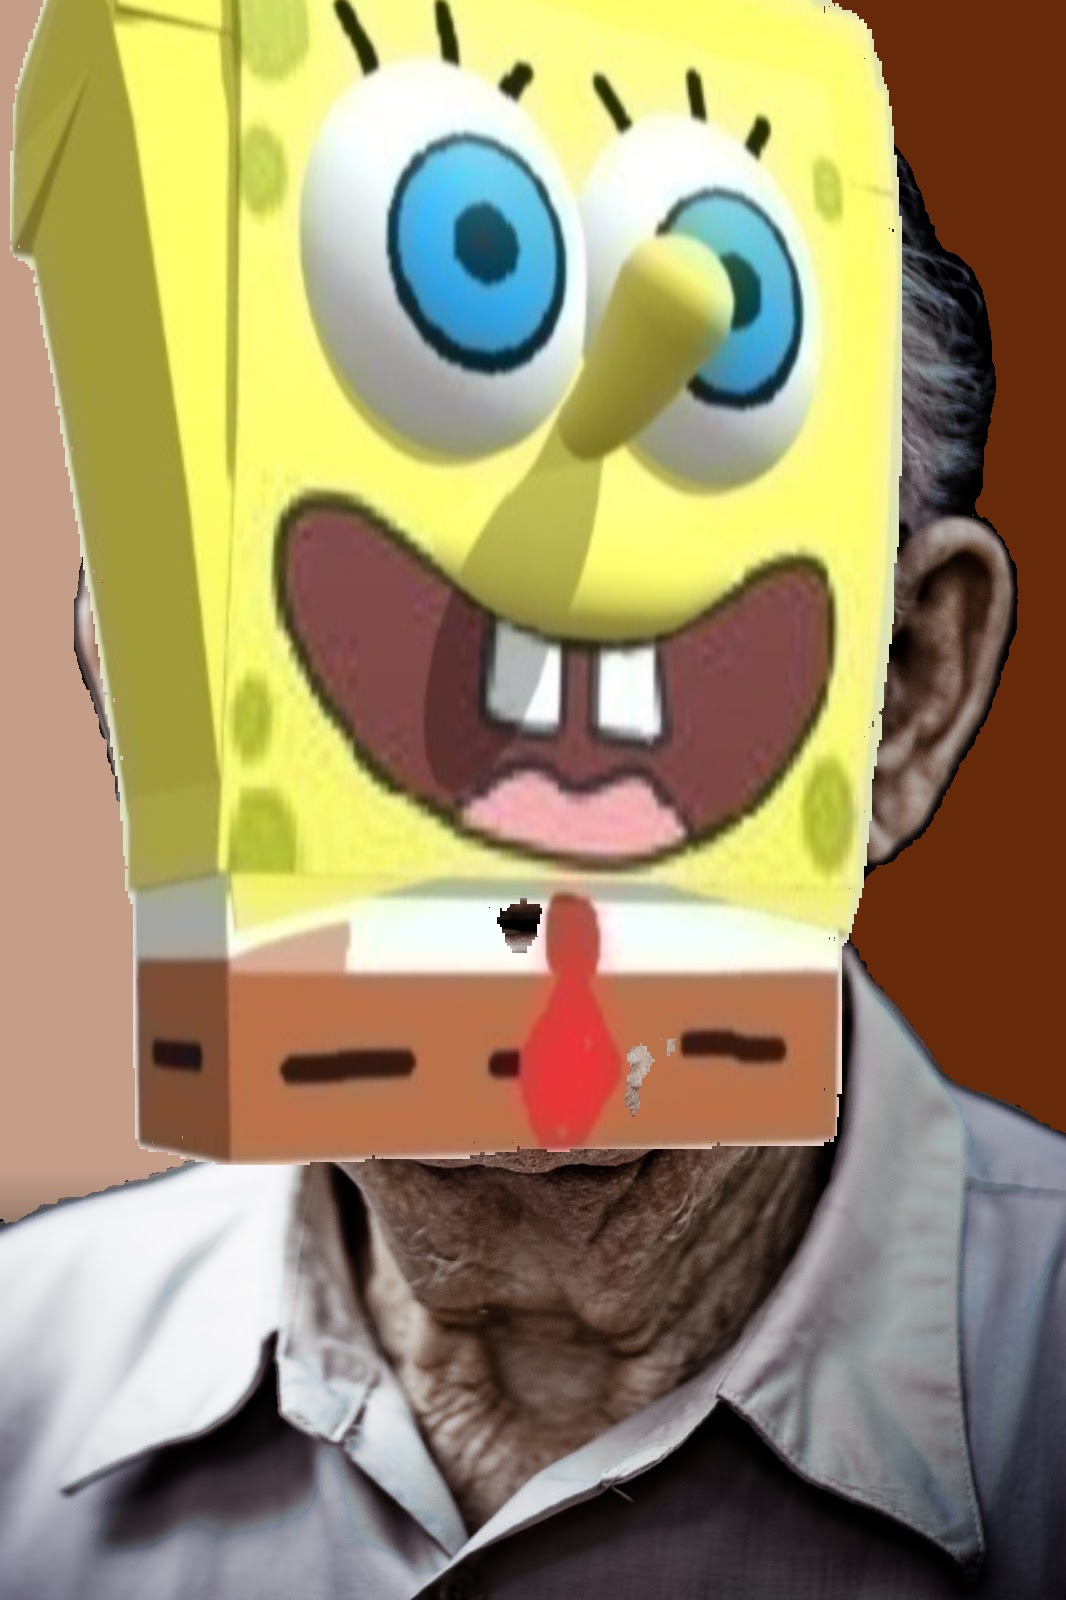
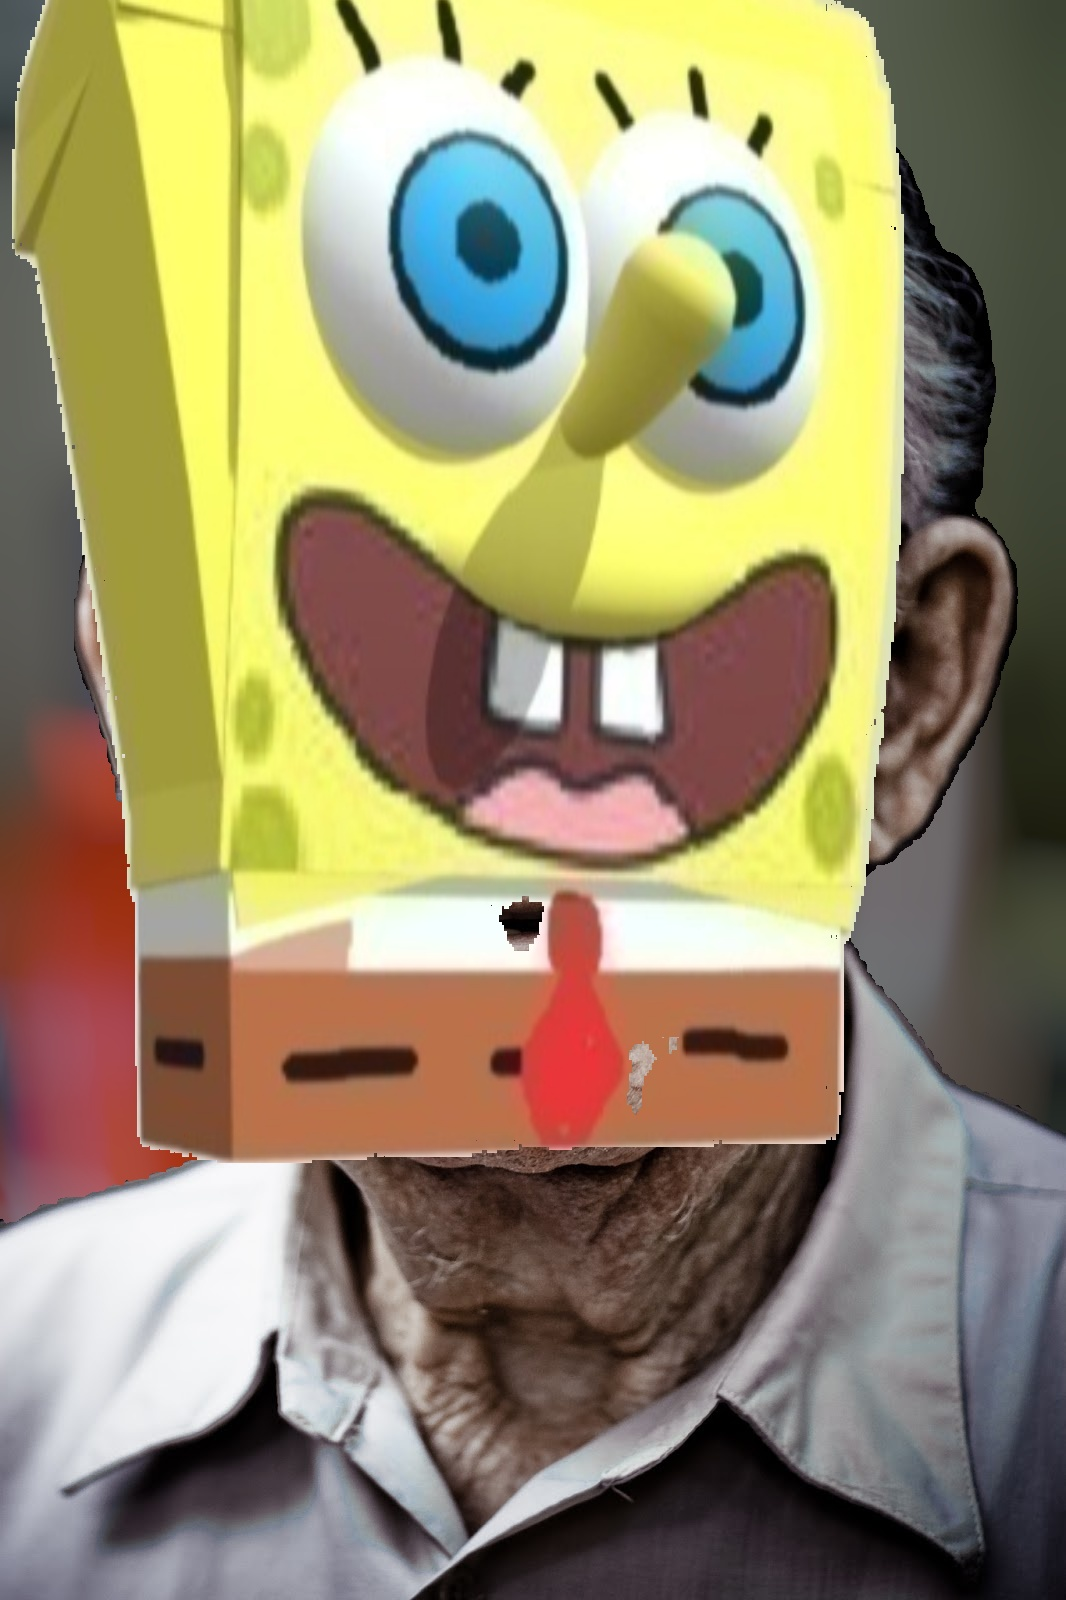
updated enhance

diff --git a/main.py b/main.py
@@ -10,6 +10,7 @@ import cv2
 from bokeh_and_overlay import bokeh_bg
 from img_segmentation import icon_segmentation
 from img_segmentation import person_segmentation
+from extra_features import img_enhance
 from img_overlay import img_overlayv2
 from bokeh_effect import bokeh
 from extra_features import resize
@@ -229,7 +230,7 @@ class AlternativeGui(QMainWindow):
             self.output_path = os.path.relpath("Output/Overlay/processed_image.jpeg")
             icon_mask = icon_segmentation.segment_iconv2(self.icon_image_path)
             bokeh_background = bokeh_bg(self.input_image_path, self.icon_image_path, self.background_image_path, bokeh_selector=0)
-            result = img_overlayv2.img_overlay(bokeh_background, self.icon_image_path, output_path="processed_image")
+            self.result = img_overlayv2.img_overlay(bokeh_background, self.icon_image_path, output_path="processed_image")
             try:
                 self.output_label.setPixmap(QPixmap(self.output_path).scaled(250, 250, Qt.AspectRatioMode.KeepAspectRatio))
             except:
@@ -239,6 +240,7 @@ class AlternativeGui(QMainWindow):
         try:
             if not self.output_path:
                 return
+            enhanced_img = img_enhance.random_adjust_brightness(self.result)
             original_path = os.path.relpath("Output/Overlay/processed_image.jpeg")
             enhanced_path = os.path.relpath("Output/randomly_enhanced_img.jpeg")
             if checked:

diff --git a/img_overlay/img_overlayv2.py b/img_overlay/img_overlayv2.py
@@ -66,7 +66,7 @@ def img_overlay(image, icon_path, icon_mask_path=os.path.abspath("Output/Separat
                 np.where(binary_mask_resized > 0, overlay_resized[:, :, c], img[overlay_y:overlay_y + overlay_resized.shape[0], overlay_x:overlay_x + overlay_resized.shape[1], c])
 
     # Apply image enhancement
-    enhanced_img = img_enhance.random_adjust_brightness(img)
+    # enhanced_img = img_enhance.random_adjust_brightness(img)
 
     # # Save the final image
     # plt.imshow(cv2.cvtColor(img, cv2.COLOR_BGR2RGB))
@@ -76,6 +76,7 @@ def img_overlay(image, icon_path, icon_mask_path=os.path.abspath("Output/Separat
     output_path = os.path.abspath(f"Output/Overlay/{output_path}.jpeg")
     cv2.imwrite(output_path, img)
     print("Output image saved as 'test.jpeg'.")
+    return img
 
 # # example usage
 # face_path = os.path.abspath("Input/Face/1 (1).jpeg")
